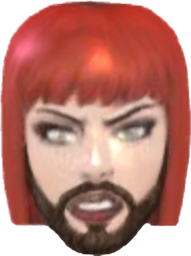
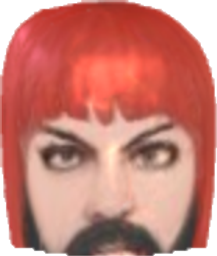
Heads v11: bobbleheads for Governor, Dan Dankas, Mainer, Firebrand, Social Bean + bearded Queen re-render

diff --git a/config/heads.ts b/config/heads.ts
@@ -40,13 +40,20 @@ export const HEADS: HeadMeta[] = [
   { id: 'palestine', label: 'Activist', party: 'democrat' },
   { id: 'drag', label: 'The Queen', party: 'democrat' },
   { id: 'senator', label: 'The Senator', party: 'democrat' },
+  { id: 'tampon_tim', label: 'The Governor', party: 'democrat' },
+  { id: 'dan_dankas', label: 'Dan Dankas', party: 'democrat' },
+  { id: 'social_bean', label: 'Social Bean', party: 'democrat' },
+  { id: 'firebrand', label: 'Firebrand', party: 'democrat' },
+  // Republican-flavored (new wave)
+  { id: 'maine', label: 'The Mainer', party: 'republican' },
 ]
 
-// v10 = The Queen grew a beard (Michael). v8/9: adaptive jaw clip, normalized
-// heights, senator nose fix, Don chin restore
-export const headImage = (id: string) => `/heads/${id}.png?v=10`
+// v11 = new-wave heads (Governor, Dan Dankas, Mainer, Firebrand, Social Bean)
+// + The Queen re-rendered with her LONG beard from the rebuilt model.
+// v8/9: adaptive jaw clip, normalized heights, senator nose fix, Don chin
+export const headImage = (id: string) => `/heads/${id}.png?v=11`
 // side-profile render of the same head — used IN FIGHTS so the face looks at
 // the opponent (the frontal art stays in the designer grid)
-export const headSideImage = (id: string) => `/heads/${id}_side.png?v=10`
+export const headSideImage = (id: string) => `/heads/${id}_side.png?v=11`
 export const isValidHead = (id: unknown): id is string =>
   typeof id === 'string' && HEADS.some(h => h.id === id)

diff --git a/docs/AGENT_CHANNEL.md b/docs/AGENT_CHANNEL.md
@@ -1648,3 +1648,13 @@ QUEUE RENDERED, awaiting Michael's A/B picks on Desktop/PoliticsGo: Firebrand-No
 Roster note: dems gained 3 fighters today vs 1 rep — flagged to Michael for future balance. Still pending: bobbleheads (heads v11) + wiki/lore pages for all new fighters.
 
 **For Michael:** Firebrand, Social Bean, and the bearded Diva are live — and check AntKid-C and -D.
+
+---
+
+### 2026-07-21 — Claude
+
+**Context:** Michael: "Make sure all of the new players have bobble heads." Also: Ant Kid is ANTIFA Kid (not ant) — new black-bloc candidates CHAR-AntifaKid-A/B on Desktop awaiting pick.
+
+**To the channel:** Heads v11 shipped: rendered front+side cutouts for tampon_tim (The Governor — was missing since his debut!), dan_dankas, maine (The Mainer), firebrand, social_bean, and RE-RENDERED drag (The Queen) from the new bearded model. All five added to the HEADS catalog (fighter designer grid + PvP + 75%-of-bots pool pick them up automatically), cache-busted to ?v=11. Roster heads: 24.
+
+**For Michael:** the Governor, Dan, the Mainer, Firebrand, and Social Bean bobbleheads are all in the fighter designer — and the Queen's has her beard now.